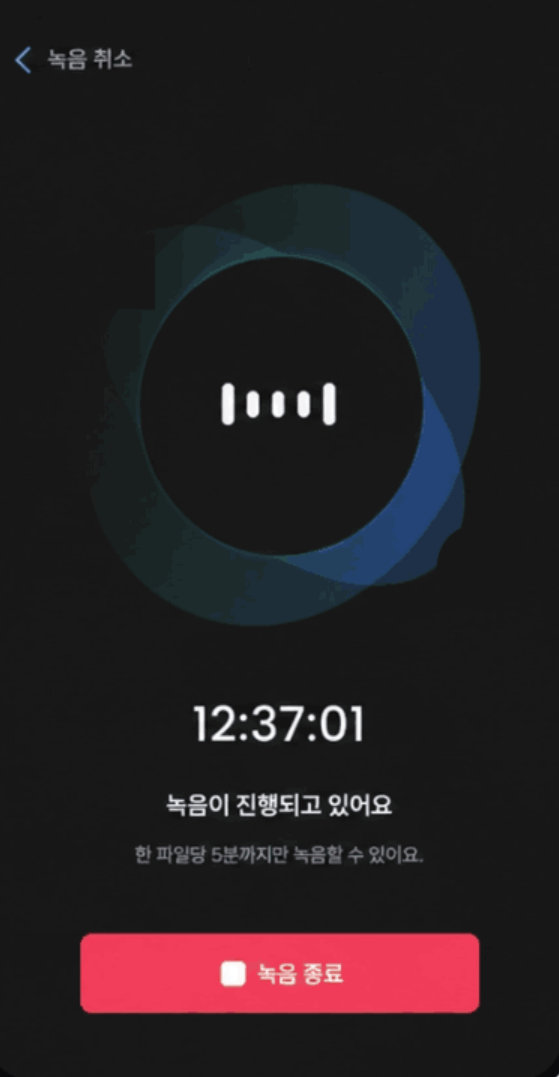
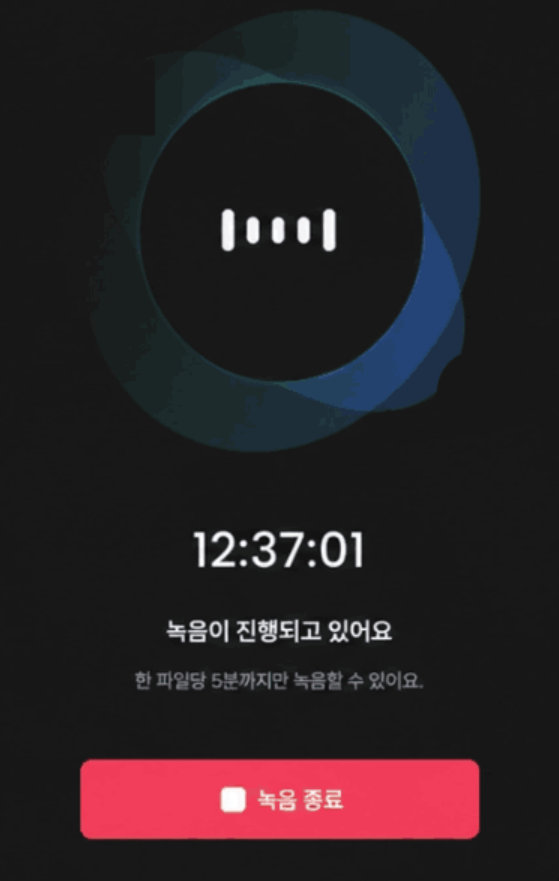
feat: 포트폴리오 화면 흐름 슬라이드와 지하철 케이스 추가
- screens 필드로 실제 화면을 단계별로 나란히 보여주는 Screen Flow 슬라이드 추가
- MOA AI 일정 추출 흐름(사진 선택 → 추출 중 → 완료 → 결과) 화면 4장 추가, 가족 일정은 가림
- 블로그 /12th/ 기준 지하철 시간표 기준 + 실시간 보정 케이스(#6)와 화면 흐름 추가
- 한 장짜리 화면은 핵심 영역만 잘라 길게 내려오지 않게 하고 케이스 제목 크기 조정

diff --git a/_sass/custom/_cv.scss b/_sass/custom/_cv.scss
@@ -499,7 +499,7 @@
   }
 
   &--case .slide__title {
-    font-size: 36px;
+    font-size: 32px;
   }
 
   &__title-sub {
@@ -1551,7 +1551,7 @@
 
   &--screen {
     display: grid;
-    grid-template-columns: minmax(0, 1fr) 210px;
+    grid-template-columns: minmax(0, 1fr) 240px;
     gap: 22px;
     align-items: start;
 
@@ -1590,5 +1590,76 @@
   @media screen and (max-width: 900px) {
     width: 200px;
     margin: 0 auto;
+  }
+}
+
+/* Screen Flow: 실제 화면을 단계별로 나란히 */
+.screens {
+  display: grid;
+  flex: 1;
+  grid-auto-columns: minmax(0, 1fr);
+  grid-auto-flow: column;
+  gap: 36px;
+  align-items: start;
+  margin: 0;
+  padding: 4px 24px 0;
+  list-style: none;
+
+  &__item {
+    position: relative;
+    display: flex;
+    flex-direction: column;
+    align-items: center;
+    margin: 0;
+
+    &:not(:last-child)::after {
+      content: "→";
+      position: absolute;
+      top: 220px;
+      right: -28px;
+      color: #9aa1ad;
+      font-size: 20px;
+    }
+
+    .phone__frame {
+      width: 206px;
+    }
+
+    p {
+      max-width: 230px;
+      margin: 10px 0 0;
+      color: #3b4250;
+      font-size: 12.5px;
+      font-weight: 700;
+      line-height: 1.45;
+      text-align: center;
+    }
+  }
+
+  &__step {
+    margin-bottom: 8px;
+    color: var(--cv-accent);
+    font-family: var(--cv-mono);
+    font-size: 11px;
+    font-weight: 800;
+    letter-spacing: 0.12em;
+  }
+
+  @media screen and (max-width: 900px) {
+    grid-auto-flow: row;
+    grid-template-columns: repeat(2, minmax(0, 1fr));
+    gap: 24px 12px;
+    padding: 0;
+
+    &__item {
+      &::after {
+        display: none;
+      }
+
+      .phone__frame {
+        width: 100%;
+        max-width: 180px;
+      }
+    }
   }
 }

diff --git a/_includes/cv/case.html b/_includes/cv/case.html
@@ -1,6 +1,7 @@
 {%- comment -%}
   케이스 스터디 슬라이드. 기간·인원·기술 스택은 projects.yml에서 읽는다.
   - 1장: 문제 / 해결 + (상황 · Before · After 카드가 있으면) 하단 카드, screen이 있으면 오른쪽에 실제 화면
+  - (screens가 있으면) 실제 화면을 나란히 보여주는 Screen Flow 장
   - 2장: 처리 흐름 + 설계 포인트 · 결과 · 배운 점
   하단 카드도 처리 흐름도 없으면 설계 포인트 · 결과까지 1장에 담는다.
 {%- endcomment -%}
@@ -81,6 +82,21 @@
   {%- endif %}
   </div>
 </section>
+
+{%- if c.screens and c.screens.size > 0 %}
+<section class="slide slide--case">
+  {% include cv/slide-head.html eyebrow="Screen Flow" title=case_title project=cp %}
+  <ol class="screens">
+    {%- for s in c.screens %}
+    <li class="screens__item">
+      <span class="screens__step">STEP {{ forloop.index }}</span>
+      <div class="phone__frame"><img src="{{ s.src | relative_url }}" alt="{{ s.alt }}"></div>
+      <p>{{ s.caption }}</p>
+    </li>
+    {%- endfor %}
+  </ol>
+</section>
+{%- endif %}
 
 {%- if has_cards or has_flow %}
 <section class="slide slide--case">
